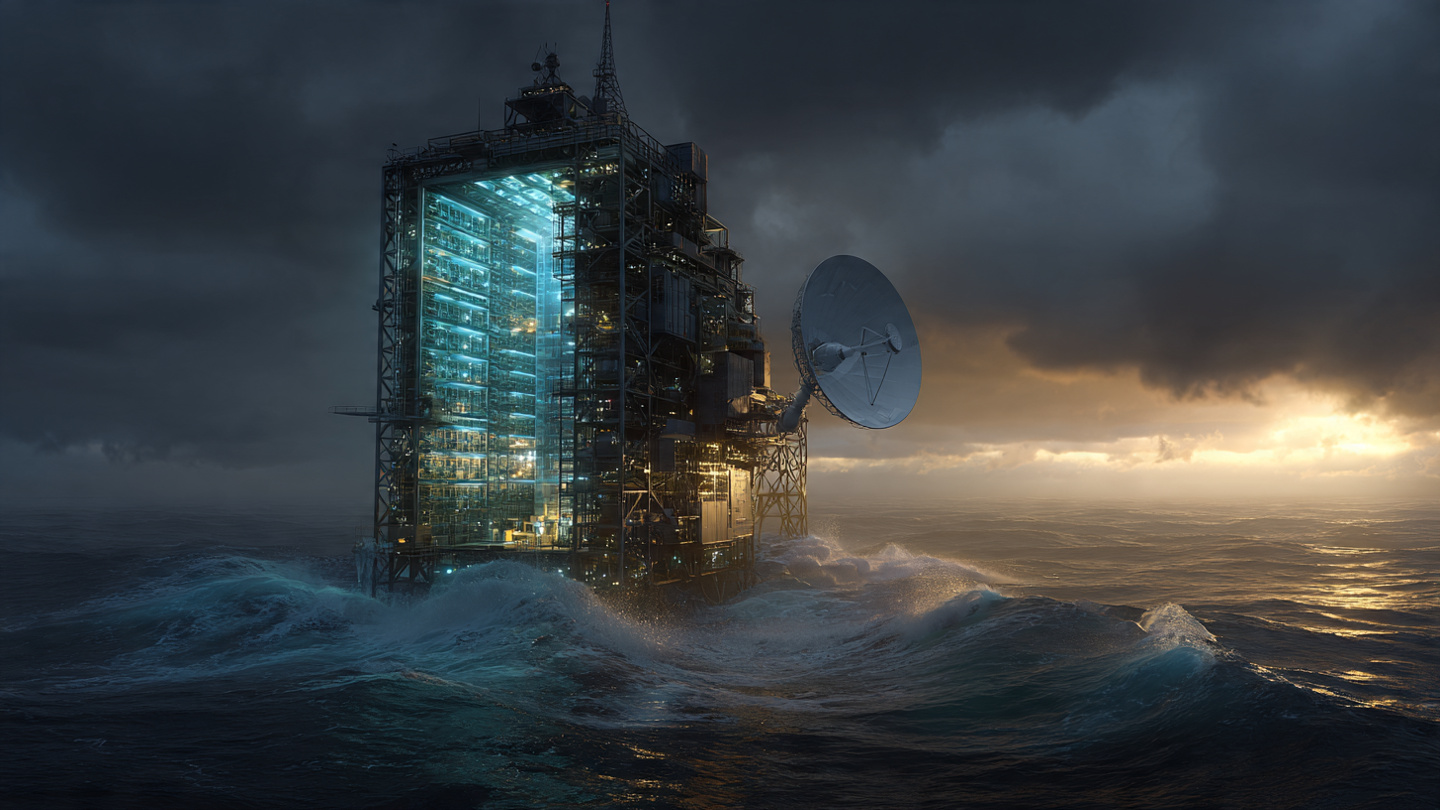
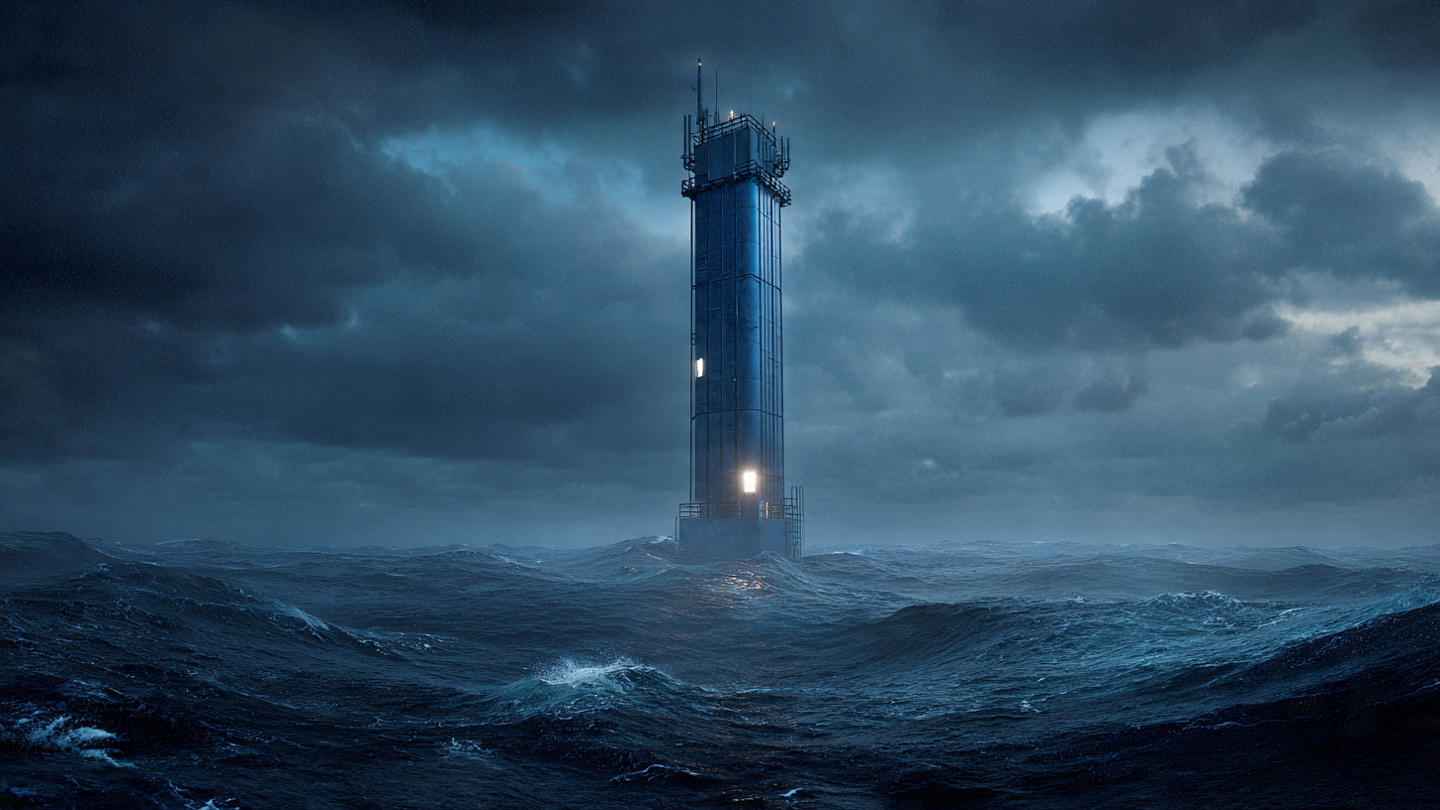
Publish #292: Panthalassa Claims It Can Run AI on Ocean Waves for $0.02/kWh — Viktor Holm
Energy article analyzing Panthalassa's 40M raise from Peter Thiel for wave-powered
floating AI data centers. Original contributions: all-in cost decomposition (land vs
ocean), bandwidth bottleneck analysis proving inference-only via Starlink, and Project
Natick comparison. Strongest counterargument: 30 years of wave energy failures (Pelamis,
Oceanlinx, Aquamarine) plus nuclear microreactor competition. 7-critic scores: General
9.0, Voice 9.0, Ethics 9.0, Social 8.5, Legal 9.0, Rigor 9.5, Data 9.0.

diff --git a/index.html b/index.html
@@ -96,14 +96,14 @@
 
 <!-- Featured Article -->
 <section class="featured" id="articles">
-  <a href="stories/unconscious-hippocampus-language-prediction.html" style="text-decoration:none;color:inherit">
+  <a href="stories/panthalassa-wave-ocean-ai-data-center.html" style="text-decoration:none;color:inherit">
     <div class="featured-card">
-      <img src="images/unconscious-hippocampus-language-prediction.jpg?v=5a5bf922" alt="" class="featured-img" loading="eager">
+      <img src="images/panthalassa-wave-ocean-ai-data-center.jpg?v=2a0624a1" alt="" class="featured-img" loading="eager">
       <div class="featured-content">
-        <span class="featured-kicker">&#129504; Neuro</span>
-        <h2 class="featured-title">Seven Patients Were Under General Anesthesia. Their Brains Were Predicting the Next Word of a Podcast.</h2>
-        <p class="featured-deck">Baylor College of Medicine researchers isolated 651 hippocampal neurons from seven patients under propofol. The neurons parsed grammar, distinguished nouns from verbs, and predicted upcoming words with accuracy matching awake subjects. Consciousness theory has a problem.</p>
-        <p class="featured-meta"><strong>Dr. Iris Blackwell</strong> &middot; May 7, 2026 &middot; &#9749; 10 min read</p>
+        <span class="featured-kicker">&#9889; Energy</span>
+        <h2 class="featured-title">Panthalassa Claims It Can Run AI on Ocean Waves for $0.02/kWh. The Wave Energy Industry Average Is $0.30.</h2>
+        <p class="featured-deck">Oregon-based Panthalassa raised $140 million from Peter Thiel to build 85-meter floating AI data centers powered by ocean wave motion. The company claims power costs of $0.02/kWh. An original all-in cost decomposition suggests the energy claim may matter less than the bandwidth ceiling.</p>
+        <p class="featured-meta"><strong>Viktor Holm</strong> &middot; May 7, 2026 &middot; &#9749; 10 min read</p>
       </div>
     </div>
   </a>
@@ -113,9 +113,17 @@
 <section class="article-grid-section">
   <div class="grid-header">
     <h2 class="grid-title">Latest Investigations</h2>
-    <span class="article-count" id="articleCount">293 articles</span>
+    <span class="article-count" id="articleCount">294 articles</span>
   </div>
   <div class="article-grid" id="articleGrid">
+    <a href="stories/panthalassa-wave-ocean-ai-data-center.html" class="article-card" data-writer="Viktor Holm" data-cat="energy" data-search="panthalassa wave ocean AI data center floating Peter Thiel Garth Sheldon-Coulson wave energy LCOE Starlink inference bandwidth satellite $140 million Series B ocean-3 marine maintenance corrosion Project Natick Microsoft Starcloud nuclear microreactor IRENA Viktor Holm">
+      <div class="card-img-wrap"><img src="images/panthalassa-wave-ocean-ai-data-center.jpg?v=2a0624a1" alt="" loading="lazy"></div>
+      <div class="card-body">
+        <span class="card-kicker">⚡ Energy</span>
+        <h3 class="card-title">Panthalassa Claims It Can Run AI on Ocean Waves for $0.02/kWh. The Wave Energy Industry Average Is $0.30.</h3>
+        <p class="card-meta">Viktor Holm &middot; May 7, 2026</p>
+      </div>
+    </a>
     <a href="stories/unconscious-hippocampus-language-prediction.html" class="article-card" data-writer="Dr. Iris Blackwell" data-cat="neuro" data-search="unconscious hippocampus language prediction Neuropixels anesthesia propofol 651 neurons Baylor College Medicine Sameer Sheth Kalman Katlowitz Benjamin Hayden Nature hippocampal semantic processing word prediction grammar BCI brain-computer interface consciousness Global Workspace Theory Integrated Information Theory Dr. Iris Blackwell">
       <div class="card-img-wrap"><img src="images/unconscious-hippocampus-language-prediction.jpg?v=5a5bf922" alt="" loading="lazy"></div>
       <div class="card-body">
